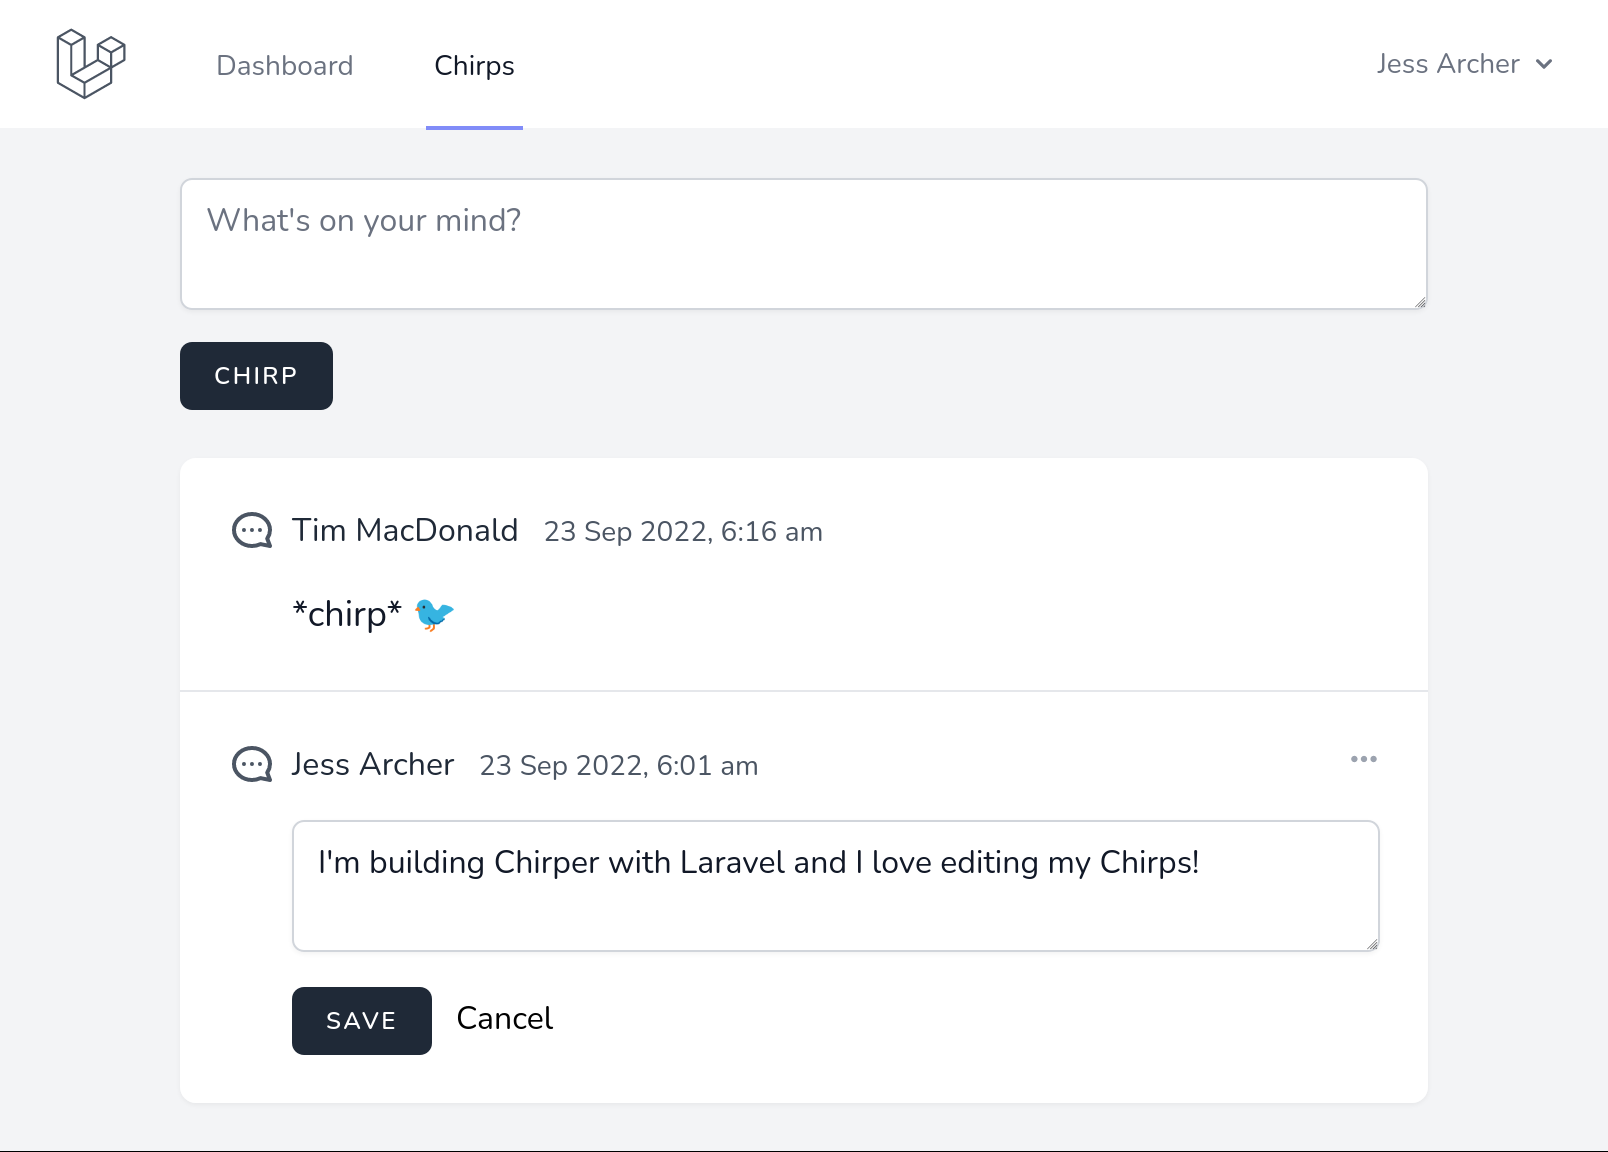
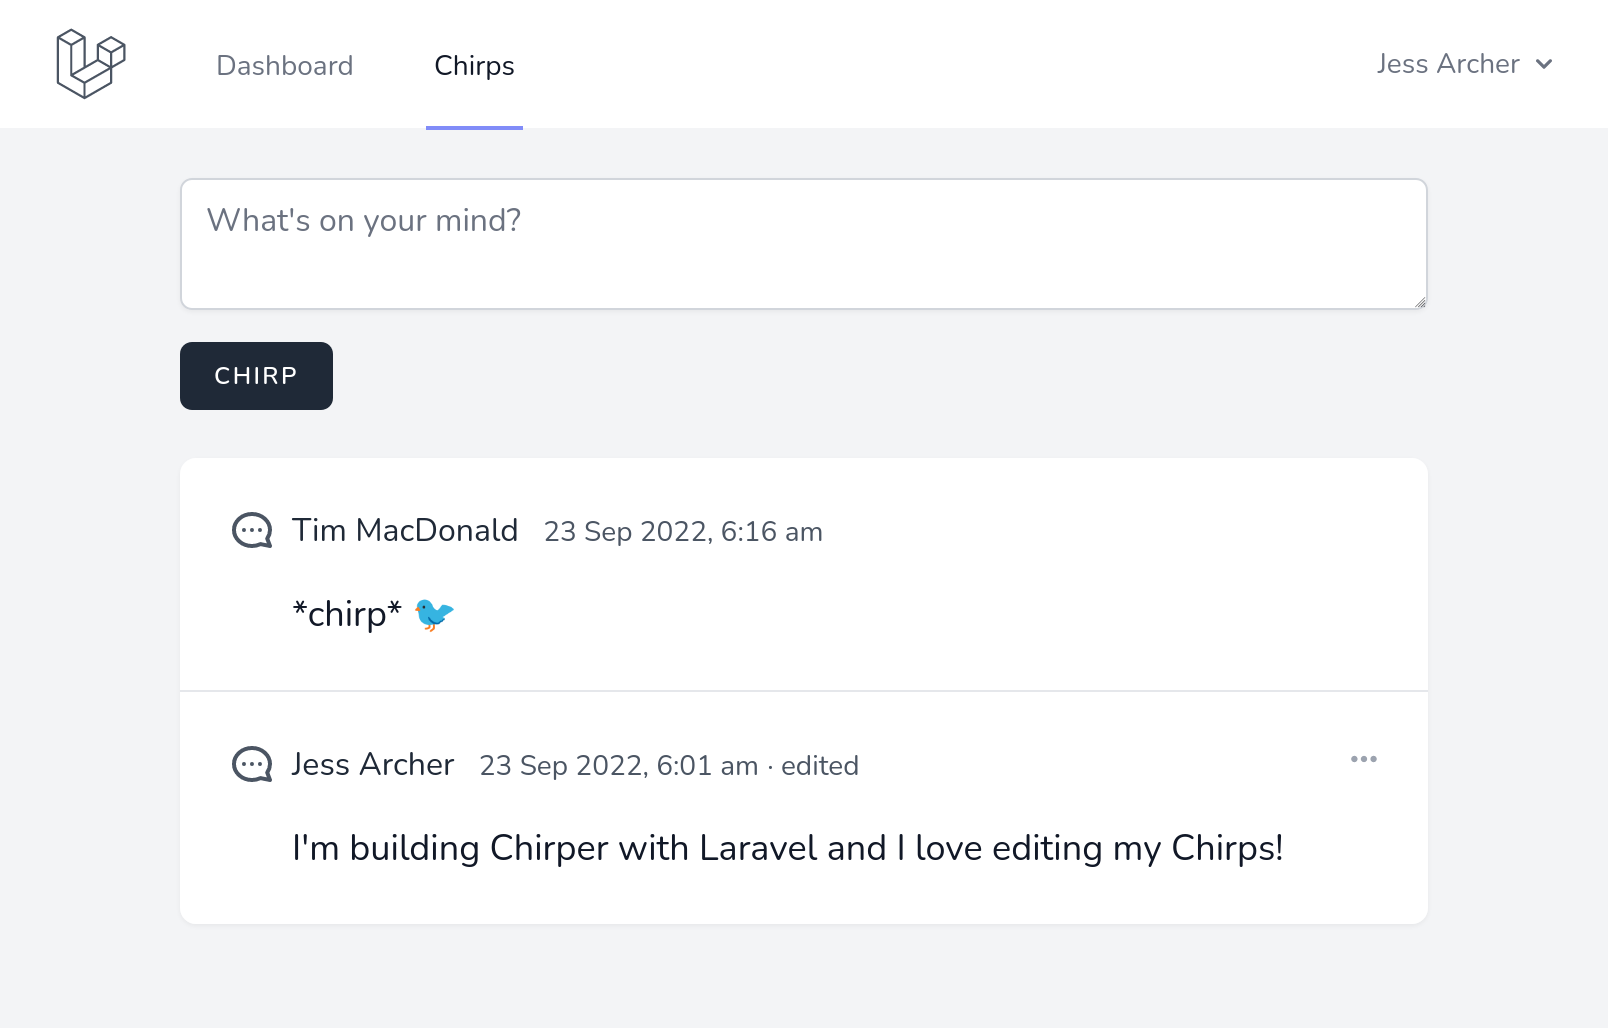
Simplify editing by moving form to a separate page

diff --git a/resources/docs/blade/editing-chirps.md b/resources/docs/blade/editing-chirps.md
@@ -6,7 +6,7 @@ Let's add a feature that's missing from other popular bird-themed microblogging 
 
 ## Routing
 
-First we will update our routes file to enable the `chirps.update` route for our resource controller:
+First we will update our routes file to enable the `chirps.edit` and `chirps.update` routes for our resource controller. The `chirps.edit` route will display the form for editing a Chirp, while the `chirps.update` route will accept the data from the form and update the model.
 
 ```php filename=routes/web.php
 <?php
@@ -35,7 +35,7 @@ Route::get('/dashboard', function () {
 // [tl! collapse:end]
 Route::resource('chirps', ChirpController::class)
     ->only(['index', 'store'])// [tl! remove]
-    ->only(['index', 'store', 'update'])// [tl! add]
+    ->only(['index', 'store', 'edit', 'update'])// [tl! add]
     ->middleware(['auth', 'verified']);
 // [tl! collapse:start]
 require __DIR__.'/auth.php';
@@ -48,17 +48,12 @@ Verb      | URI                    | Action       | Route Name
 ----------|------------------------|--------------|---------------------
 GET       | `/chirps`              | index        | chirps.index
 POST      | `/chirps`              | store        | chirps.store
+GET       | `/chirps/{chirp}/edit` | edit         | chirps.edit
 PUT/PATCH | `/chirps/{chirp}`      | update       | chirps.update
 
-## Updating our view
+## Linking to the edit page
 
-Next, let's update our `chirps.index` view to have a form for editing existing Chirps.
-
-Because we'll have multiple forms on the same page, we'll need to use [named error bags](https://laravel.com/docs/validation#named-error-bags) in order to show the validation errors on the right form, and we'll also need to make sure we only load the "old" data when the form contains errors.
-
-We're going to use the `x-dropdown` component that comes with Breeze, which we'll only display to the Chirp author. We'll also display an indication if a Chirp has been edited by comparing the Chirp's `created_at` date with its `updated_at` date.
-
-We'll be using [Alpine.js](https://alpinejs.dev/), which comes pre-installed with Breeze, to only display the form when the edit button is been pressed.
+Next, let's link our new `chirps.edit` route. We'll use the `x-dropdown` component that comes with Breeze, which we'll only display to the Chirp author. We'll also display an indication if a Chirp has been edited by comparing the Chirp's `created_at` date with its `updated_at` date.
 
 ```blade filename=resources/views/chirps/index.blade.php
 <x-app-layout>
@@ -69,16 +64,14 @@ We'll be using [Alpine.js](https://alpinejs.dev/), which comes pre-installed wit
                 name="message"
                 placeholder="{{ __('What\'s on your mind?') }}"
                 class="block w-full border-gray-300 focus:border-indigo-300 focus:ring focus:ring-indigo-200 focus:ring-opacity-50 rounded-md shadow-sm"
-            >{{ old('message') }}</textarea><!-- [tl! remove] -->
-            >{{ $errors->isNotEmpty() ? old('message') : '' }}</textarea><!-- [tl! add] -->
+            >{{ old('message') }}</textarea>
             <x-input-error :messages="$errors->get('message')" class="mt-2" />
             <x-primary-button class="mt-4">{{ __('Chirp') }}</x-primary-button>
         </form>
 
         <div class="mt-6 bg-white shadow-sm rounded-lg divide-y">
             @foreach ($chirps as $chirp)
-                <div class="p-6 flex space-x-2"><!-- [tl! remove] -->
-                <div class="p-6 flex space-x-2" x-data="{ editing: {{ $errors->getBag("update.{$chirp->id}")->isNotEmpty() ? 'true' : 'false' }} }"}><!-- [tl! add] -->
+                <div class="p-6 flex space-x-2">
                     <svg xmlns="http://www.w3.org/2000/svg" class="h-6 w-6 text-gray-600 -scale-x-100" fill="none" viewBox="0 0 24 24" stroke="currentColor" stroke-width="2">
                         <path stroke-linecap="round" stroke-linejoin="round" d="M8 12h.01M12 12h.01M16 12h.01M21 12c0 4.418-4.03 8-9 8a9.863 9.863 0 01-4.255-.949L3 20l1.395-3.72C3.512 15.042 3 13.574 3 12c0-4.418 4.03-8 9-8s9 3.582 9 8z" />
                     </svg>
@@ -101,28 +94,14 @@ We'll be using [Alpine.js](https://alpinejs.dev/), which comes pre-installed wit
                                         </button>
                                     </x-slot>
                                     <x-slot name="content">
-                                        <button type="button" class="block w-full px-4 py-2 text-left text-sm leading-5 text-gray-700 hover:bg-gray-100 focus:bg-gray-100 transition duration-150 ease-in-out" @click="editing = true">
+                                        <x-dropdown-link :href="route('chirps.edit', $chirp)">
                                             {{ __('Edit') }}
-                                        </button>
+                                        </x-dropdown-link>
                                     </x-slot>
                                 </x-dropdown>
                             @endif<!-- [tl! add:end] -->
                         </div>
-                        <p class="mt-4 text-lg text-gray-900">{{ $chirp->message }}</p><!-- [tl! remove] -->
-                        <form x-show="editing" method="POST" action="{{ route('chirps.update', $chirp->id) }}" style="display: none;"><!-- [tl! add:start] -->
-                            @csrf
-                            @method('patch')
-                            <textarea
-                                name="message"
-                                class="mt-4 w-full text-gray-900 border-gray-300 focus:border-indigo-300 focus:ring focus:ring-indigo-200 focus:ring-opacity-50 rounded-md shadow-sm"
-                            >{{ $errors->getBag("update.{$chirp->id}")->isNotEmpty() ? old('message') : $chirp->message }}</textarea>
-                            <x-input-error :messages='$errors->getBag("update.{$chirp->id}")->get("message")' class="mt-2" />
-                            <div class="mt-4 space-x-2">
-                                <x-primary-button>{{ __('Save') }}</x-primary-button>
-                                <button type="reset" @click="editing = false">{{ __('Cancel') }}</button>
-                            </div>
-                        </form>
-                        <p x-show="! editing" class="mt-4 text-lg text-gray-900">{{ $chirp->message }}</p><!-- [tl! add:end] -->
+                        <p class="mt-4 text-lg text-gray-900">{{ $chirp->message }}</p>
                     </div>
                 </div>
             @endforeach
@@ -131,9 +110,37 @@ We'll be using [Alpine.js](https://alpinejs.dev/), which comes pre-installed wit
 </x-app-layout>
 ```
 
+## Creating the edit form
+
+Let's create a new Blade view with a form for editing a Chirp. This is similar to the form for creating Chirps, except we'll post to the `chirps.update` route and use the `@method` directive to specify that we're making a "PATCH" request. We'll also pre-populate the field with the existing Chirp message.
+
+```blade filename=resources/views/chirps/edit.blade.php
+<x-app-layout>
+    <div class="max-w-2xl mx-auto p-4 sm:p-6 lg:p-8">
+        <form method="POST" action="{{ route('chirps.update', $chirp) }}">
+            @csrf
+            @method('patch')
+            <textarea
+                name="message"
+                class="block w-full border-gray-300 focus:border-indigo-300 focus:ring focus:ring-indigo-200 focus:ring-opacity-50 rounded-md shadow-sm"
+            >{{ old('message', $chirp->message) }}</textarea>
+            <x-input-error :messages="$errors->get('message')" class="mt-2" />
+            <div class="mt-4 space-x-2">
+                <x-primary-button>{{ __('Save') }}</x-primary-button>
+                <a href="{{ route('chirps.index') }}">{{ __('Cancel') }}</a>
+            </div>
+        </form>
+    </div>
+</x-app-layout>
+```
+
 ## Updating our controller
 
-We can now update the `update` method on our `ChirpController` class to validate the request and update the database. Even though we're only displaying the edit button to the author of the Chirp, we also need to authorize the request to make sure it's actually the author that is updating it:
+Let's update the `edit` method on our `ChirpController` to display our form. Laravel will automatically load the Chirp model from the database using [route model binding](https://laravel.com/docs/9.x/routing#route-model-binding) so we can pass it straight to the view.
+
+We'll then update the `update` method to validate the request and update the database.
+
+Even though we're only displaying the edit button to the author of the Chirp, we still need to make sure the user accessing these routes is authorized.
 
 ```php filename=app/Http/Controllers/ChirpController.php
 <?php
@@ -195,7 +202,7 @@ class ChirpController extends Controller
     {
         //
     }
-
+    // [tl! collapse:end]
     /**
      * Show the form for editing the specified resource.
      *
@@ -205,8 +212,12 @@ class ChirpController extends Controller
     public function edit(Chirp $chirp)
     {
         //
+        $this->authorize('update', $chirp);// [tl! remove:-1,1 add:start]
+
+        return view('chirps.edit', [
+            'chirp' => $chirp,
+        ]);// [tl! add:end]
     }
-    // [tl! collapse:end]
     /**
      * Update the specified resource in storage.
      *
@@ -219,7 +230,7 @@ class ChirpController extends Controller
         //
         $this->authorize('update', $chirp);// [tl! remove:-1,1 add:start]
 
-        $validated = $request->validateWithBag("update.{$chirp->id}", [
+        $validated = $request->validate([
             'message' => 'required|string|max:255',
         ]);
 

diff --git a/resources/docs/blade/deleting-chirps.md b/resources/docs/blade/deleting-chirps.md
@@ -36,8 +36,8 @@ Route::get('/dashboard', function () {
 })->middleware(['auth'])->name('dashboard');
 // [tl! collapse:end]
 Route::resource('chirps', ChirpController::class)
-    ->only(['index', 'store', 'update'])// [tl! remove]
-    ->only(['index', 'store', 'update', 'destroy'])// [tl! add]
+    ->only(['index', 'store', 'edit', 'update'])// [tl! remove]
+    ->only(['index', 'store', 'edit', 'update', 'destroy'])// [tl! add]
     ->middleware(['auth', 'verified']);
 // [tl! collapse:start]
 require __DIR__.'/auth.php';
@@ -50,6 +50,7 @@ Verb      | URI                    | Action       | Route Name
 ----------|------------------------|--------------|---------------------
 GET       | `/chirps`              | index        | chirps.index
 POST      | `/chirps`              | store        | chirps.store
+GET       | `/chirps/{chirp}/edit` | edit         | chirps.edit
 PUT/PATCH | `/chirps/{chirp}`      | update       | chirps.update
 DELETE    | `/chirps/{chirp}`      | destroy      | chirps.destroy
 
@@ -126,8 +127,12 @@ class ChirpController extends Controller
      */
     public function edit(Chirp $chirp)
     {
-        //
-    }
+        $this->authorize('update', $chirp);
+
+        return view('chirps.edit', [
+            'chirp' => $chirp,
+        ]);
+    {
 
     /**
      * Update the specified resource in storage.
@@ -140,7 +145,7 @@ class ChirpController extends Controller
     {
         $this->authorize('update', $chirp);
 
-        $validated = $request->validateWithBag("update.{$chirp->id}", [
+        $validated = $request->validate([
             'message' => 'required|string|max:255',
         ]);
 
@@ -286,14 +291,14 @@ Finally, we can add a delete button to the dropdown menu we created earlier in o
                 name="message"
                 placeholder="{{ __('What\'s on your mind?') }}"
                 class="block w-full border-gray-300 focus:border-indigo-300 focus:ring focus:ring-indigo-200 focus:ring-opacity-50 rounded-md shadow-sm"
-            >{{ $errors->isNotEmpty() ? old('message') : '' }}</textarea>
+            >{{ old('message') }}</textarea>
             <x-input-error :messages="$errors->get('message')" class="mt-2" />
             <x-primary-button class="mt-4">{{ __('Chirp') }}</x-primary-button>
         </form>
 
         <div class="mt-6 bg-white shadow-sm rounded-lg divide-y">
             @foreach ($chirps as $chirp)
-                <div class="p-6 flex space-x-2" x-data="{ editing: {{ $errors->getBag("update.{$chirp->id}")->isNotEmpty() ? 'true' : 'false' }} }"}>
+                <div class="p-6 flex space-x-2">
                     <svg xmlns="http://www.w3.org/2000/svg" class="h-6 w-6 text-gray-600 -scale-x-100" fill="none" viewBox="0 0 24 24" stroke="currentColor" stroke-width="2">
                         <path stroke-linecap="round" stroke-linejoin="round" d="M8 12h.01M12 12h.01M16 12h.01M21 12c0 4.418-4.03 8-9 8a9.863 9.863 0 01-4.255-.949L3 20l1.395-3.72C3.512 15.042 3 13.574 3 12c0-4.418 4.03-8 9-8s9 3.582 9 8z" />
                     </svg>
@@ -316,9 +321,9 @@ Finally, we can add a delete button to the dropdown menu we created earlier in o
                                         </button>
                                     </x-slot>
                                     <x-slot name="content">
-                                        <button type="button" class="block w-full px-4 py-2 text-left text-sm leading-5 text-gray-700 hover:bg-gray-100 focus:bg-gray-100 transition duration-150 ease-in-out" @click="editing = true">
+                                        <x-dropdown-link :href="route('chirps.edit', $chirp)">
                                             {{ __('Edit') }}
-                                        </button>
+                                        </x-dropdown-link>
                                         <form method="POST" action="{{ route('chirps.destroy', $chirp) }}"><!-- [tl! add:start] -->
                                             @csrf
                                             @method('delete')
@@ -330,20 +335,7 @@ Finally, we can add a delete button to the dropdown menu we created earlier in o
                                 </x-dropdown>
                             @endif
                         </div>
-                        <form x-show="editing" method="POST" action="{{ route('chirps.update', $chirp->id) }}" style="display: none;">
-                            @csrf
-                            @method('patch')
-                            <textarea
-                                name="message"
-                                class="mt-4 w-full text-gray-900 border-gray-300 focus:border-indigo-300 focus:ring focus:ring-indigo-200 focus:ring-opacity-50 rounded-md shadow-sm"
-                            >{{ $errors->getBag("update.{$chirp->id}")->isNotEmpty() ? old('message') : $chirp->message }}</textarea>
-                            <x-input-error :messages='$errors->getBag("update.{$chirp->id}")->get("message")' class="mt-2" />
-                            <div class="mt-4 space-x-2">
-                                <x-primary-button>{{ __('Save') }}</x-primary-button>
-                                <button type="reset" @click="editing = false">{{ __('Cancel') }}</button>
-                            </div>
-                        </form>
-                        <p x-show="! editing" class="mt-4 text-lg text-gray-900">{{ $chirp->message }}</p>
+                        <p class="mt-4 text-lg text-gray-900">{{ $chirp->message }}</p>
                     </div>
                 </div>
             @endforeach
